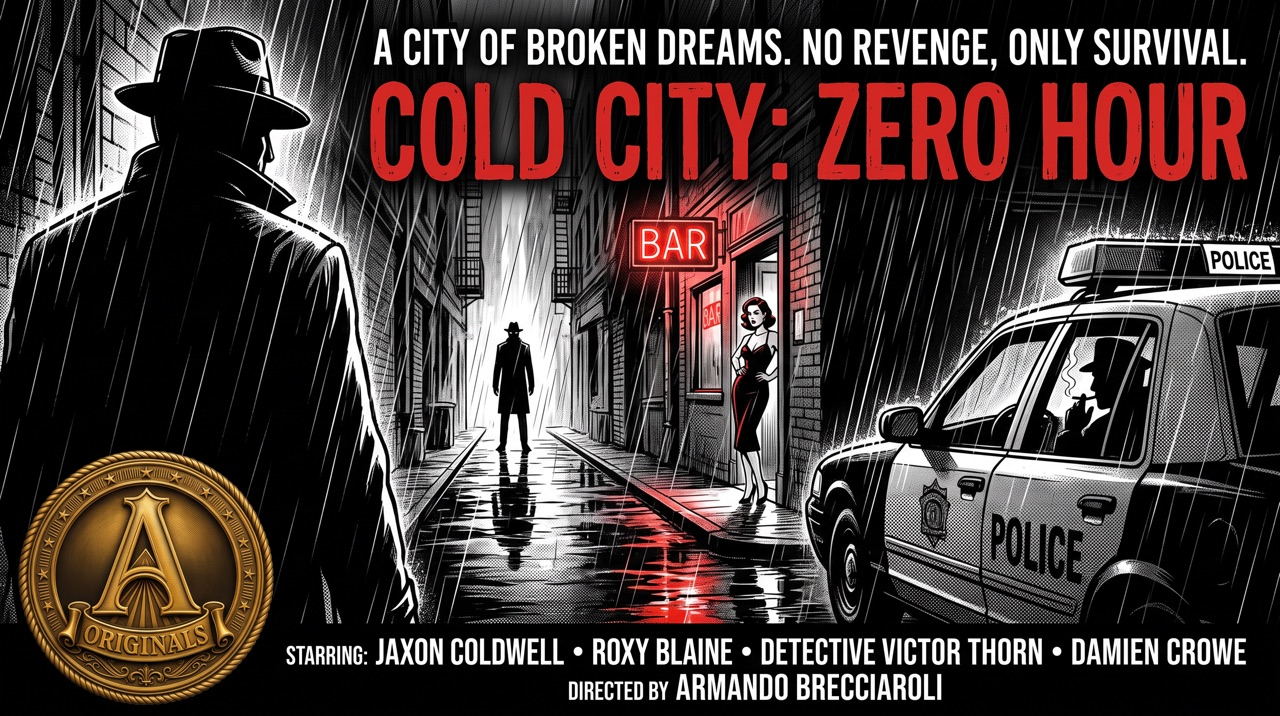
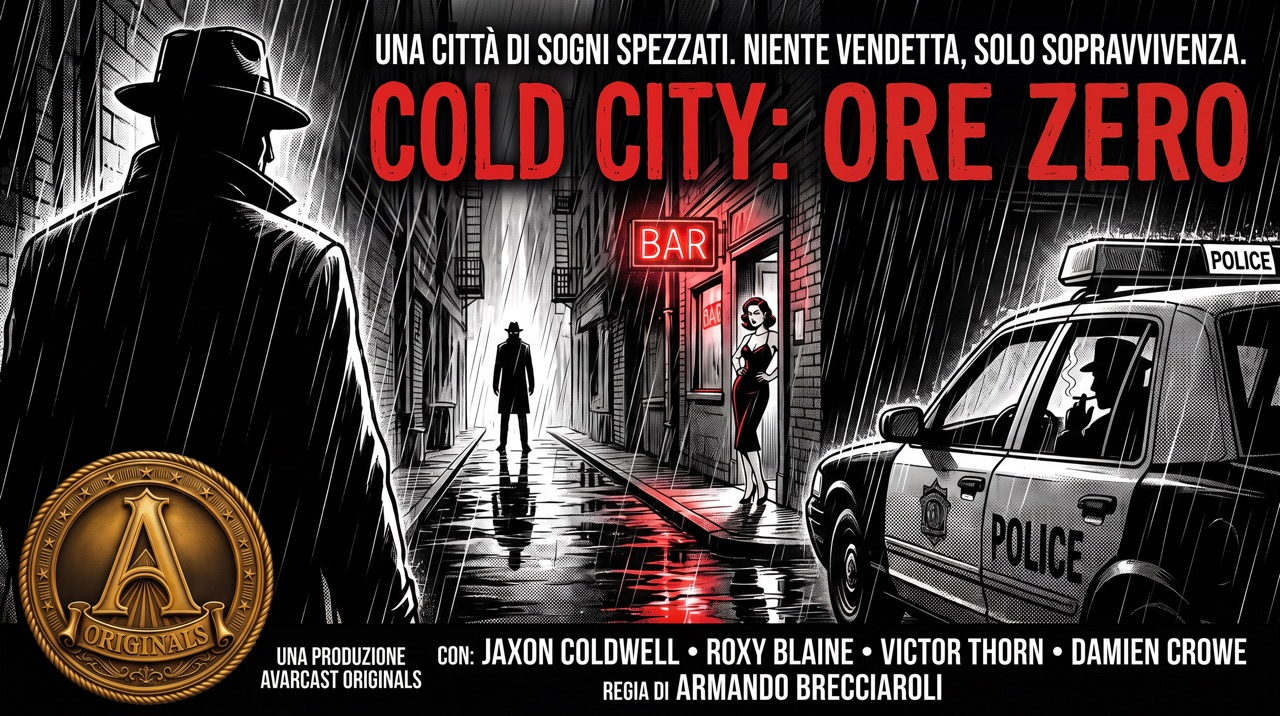
feat(cold-city): Italian title, poster and trimmed synopsis
Title changed to "Cold City: Ore Zero" everywhere (title tags, h1,
card titles, alt text, AI disclosure) to match the new Italian poster
art. Cover image replaced with the Italian version. Synopsis text
trimmed across the dedicated page, both catalog cards and the meta
description to hold back the ending twist and the ticking-clock beat.

diff --git a/originals/cold-city-zero-hour/index.html b/originals/cold-city-zero-hour/index.html
@@ -3,9 +3,9 @@
 <head>
   <meta charset="UTF-8" />
   <meta name="viewport" content="width=device-width, initial-scale=1.0" />
-  <title>Cold City: Zero Hour | Avarcast Originals</title>
-  <meta name="description" content="Un ex sicario, un archivio che può far crollare Cold City, un solo vicolo per regolare ogni conto in sospeso prima che scada il tempo. Cold City: Zero Hour, un'opera Avarcast Originals in stile neo-noir." />
-  <meta property="og:title" content="Cold City: Zero Hour" />
+  <title>Cold City: Ore Zero | Avarcast Originals</title>
+  <meta name="description" content="Un ex sicario, un archivio che può far crollare Cold City, un solo vicolo per regolare ogni conto in sospeso. Cold City: Ore Zero, un'opera Avarcast Originals in stile neo-noir." />
+  <meta property="og:title" content="Cold City: Ore Zero" />
   <meta property="og:description" content="Neo-noir, graphic novel cinematico. Un'opera Avarcast Originals." />
   <meta property="og:image" content="../../assets/img/originals/cold-city-zero-hour-cover.jpg" />
   <meta property="og:type" content="video.other" />
@@ -300,7 +300,7 @@
       <span data-lang="it">Produzione originale · Neo-noir · Graphic novel cinematico</span>
       <span data-lang="en">Original production · Neo-noir · Cinematic graphic novel</span>
     </div>
-    <h1 class="cz-title">Cold City: Zero Hour</h1>
+    <h1 class="cz-title">Cold City: Ore Zero</h1>
     <div class="cz-subtitle">
       <span data-lang="it">Una città di sogni infranti. Nessuna vendetta, solo sopravvivenza.</span>
       <span data-lang="en">A city of broken dreams. No revenge, only survival.</span>
@@ -310,8 +310,8 @@
       <span data-lang="en">In Cold City's darkest night, a former hitman holds the archive that could bring the whole city down.</span>
     </p>
     <p class="cz-desc">
-      <span data-lang="it">Sotto una pioggia che non riesce a lavare via i peccati, Jaxon Coldwell aspetta in un vicolo. Quando arrivano la misteriosa Roxy Blaine, il detective corrotto Victor Thorn e Damien Crowe, l'uomo che ha orchestrato tutto nell'ombra, l'incontro si trasforma in uno stallo fatto di menzogne, vecchi tradimenti e conti mai chiusi. Jaxon non è lì per vendere l'archivio: sta comprando tempo. Alle quattro in punto, la verità diventa impossibile da fermare.</span>
-      <span data-lang="en">Under a rain that can't wash the sins away, Jaxon Coldwell waits in an alley. When the mysterious Roxy Blaine, corrupt detective Victor Thorn and Damien Crowe, the man who orchestrated it all from the shadows, arrive, the meeting turns into a standoff of lies, old betrayals and scores never settled. Jaxon isn't there to sell the archive: he's buying time. At four o'clock sharp, the truth becomes impossible to stop.</span>
+      <span data-lang="it">Sotto una pioggia che non riesce a lavare via i peccati, Jaxon Coldwell aspetta in un vicolo. Quando arrivano la misteriosa Roxy Blaine, il detective corrotto Victor Thorn e Damien Crowe, l'uomo che ha orchestrato tutto nell'ombra, l'incontro si trasforma in uno stallo fatto di menzogne, vecchi tradimenti e conti mai chiusi.</span>
+      <span data-lang="en">Under a rain that can't wash the sins away, Jaxon Coldwell waits in an alley. When the mysterious Roxy Blaine, corrupt detective Victor Thorn and Damien Crowe, the man who orchestrated it all from the shadows, arrive, the meeting turns into a standoff of lies, old betrayals and scores never settled.</span>
     </p>
   </div>
 </div>
@@ -365,8 +365,8 @@
 <section id="watch">
   <div class="wrap">
     <div class="sec-label">
-      <span data-lang="it">Zero Hour</span>
-      <span data-lang="en">Zero Hour</span>
+      <span data-lang="it">Ore Zero</span>
+      <span data-lang="en">Ore Zero</span>
     </div>
     <h2 class="sec-title">
       <span data-lang="it">Guarda il trailer</span>
@@ -374,9 +374,9 @@
     </h2>
 
     <div class="ep-grid">
-      <div class="ep-card" data-yt-id="" data-title="Cold City: Zero Hour · Trailer">
+      <div class="ep-card" data-yt-id="" data-title="Cold City: Ore Zero · Trailer">
         <div class="ep-fallback"></div>
-        <img class="ep-photo" src="../../assets/img/originals/cold-city-zero-hour-cover.jpg" alt="Cold City: Zero Hour" loading="lazy" onerror="this.style.display='none'" />
+        <img class="ep-photo" src="../../assets/img/originals/cold-city-zero-hour-cover.jpg" alt="Cold City: Ore Zero" loading="lazy" onerror="this.style.display='none'" />
         <div class="ep-gradient"></div>
         <a class="ep-play" aria-label="Guarda il trailer su YouTube" style="display:none;" target="_blank" rel="noopener noreferrer">
           <svg viewBox="0 0 24 24" fill="currentColor"><path d="M8 5v14l11-7z"/></svg>
@@ -398,8 +398,8 @@
       <span data-lang="en">Don't miss the release</span>
     </h2>
     <p class="notify-desc">
-      <span data-lang="it">Ti avvisiamo appena trailer e prima uscita di Cold City: Zero Hour saranno online su YouTube. Fa parte del catalogo Avarcast Originals: le uscite riservate agli abbonati saranno accessibili tramite il nostro <a href="https://patreon.com/AvarCast" target="_blank" rel="noopener noreferrer">profilo Patreon</a>, prezzo pubblicato lì.</span>
-      <span data-lang="en">We'll let you know as soon as the trailer and first release of Cold City: Zero Hour are online on YouTube. It's part of the Avarcast Originals catalog: subscriber-only releases will be accessible through our <a href="https://patreon.com/AvarCast" target="_blank" rel="noopener noreferrer">Patreon page</a>, price published there.</span>
+      <span data-lang="it">Ti avvisiamo appena trailer e prima uscita di Cold City: Ore Zero saranno online su YouTube. Fa parte del catalogo Avarcast Originals: le uscite riservate agli abbonati saranno accessibili tramite il nostro <a href="https://patreon.com/AvarCast" target="_blank" rel="noopener noreferrer">profilo Patreon</a>, prezzo pubblicato lì.</span>
+      <span data-lang="en">We'll let you know as soon as the trailer and first release of Cold City: Ore Zero are online on YouTube. It's part of the Avarcast Originals catalog: subscriber-only releases will be accessible through our <a href="https://patreon.com/AvarCast" target="_blank" rel="noopener noreferrer">Patreon page</a>, price published there.</span>
     </p>
 
     <form class="waitlist-form" id="cold-city-form" onsubmit="submitWaitlist(event,'cold-city-zero-hour')">
@@ -456,8 +456,8 @@
       <a href="../index.html">Avarcast Originals</a> · <a href="../../privacy.html">Privacy</a> · <a href="../../terms.html">Termini</a>
     </div>
     <p class="ai-disclosure">
-      <span data-lang="it">Cold City: Zero Hour è un progetto narrativo generato o manipolato con intelligenza artificiale, ai sensi dell'art. 50 del Regolamento UE 2024/1689 (AI Act).</span>
-      <span data-lang="en">Cold City: Zero Hour is a narrative project generated or manipulated using artificial intelligence, pursuant to Article 50 of Regulation (EU) 2024/1689 (the AI Act).</span>
+      <span data-lang="it">Cold City: Ore Zero è un progetto narrativo generato o manipolato con intelligenza artificiale, ai sensi dell'art. 50 del Regolamento UE 2024/1689 (AI Act).</span>
+      <span data-lang="en">Cold City: Ore Zero is a narrative project generated or manipulated using artificial intelligence, pursuant to Article 50 of Regulation (EU) 2024/1689 (the AI Act).</span>
     </p>
   </div>
 </footer>

diff --git a/originals/index.html b/originals/index.html
@@ -4,7 +4,7 @@
   <meta charset="UTF-8" />
   <meta name="viewport" content="width=device-width, initial-scale=1.0" />
   <title>Avarcast Originals · Storie originali. Mondi originali.</title>
-  <meta name="description" content="Serie, cortometraggi e progetti narrativi che Avarcast scrive, produce e pubblica in autonomia: da Jonah Drevane, Cronache del Meridiano Nero, a Cold City: Zero Hour." />
+  <meta name="description" content="Serie, cortometraggi e progetti narrativi che Avarcast scrive, produce e pubblica in autonomia: da Jonah Drevane, Cronache del Meridiano Nero, a Cold City: Ore Zero." />
   <meta property="og:title" content="Avarcast Originals" />
   <meta property="og:description" content="Storie originali. Mondi originali. Produzioni Avarcast." />
   <meta property="og:image" content="../assets/img/originals/jonah-drevane-cover.jpg" />
@@ -375,7 +375,7 @@
           <div class="cc-fallback"></div>
           <img class="cc-photo"
             src="../assets/img/originals/cold-city-zero-hour-cover.jpg"
-            alt="Cold City: Zero Hour"
+            alt="Cold City: Ore Zero"
             loading="lazy"
             onerror="this.style.display='none'" />
         </div>
@@ -384,14 +384,14 @@
             <span data-lang="it">Neo-noir · Graphic novel cinematico</span>
             <span data-lang="en">Neo-noir · Cinematic graphic novel</span>
           </div>
-          <div class="cc-title">Cold City: Zero Hour</div>
+          <div class="cc-title">Cold City: Ore Zero</div>
           <div class="cc-subtitle">
             <span data-lang="it">Una città di sogni infranti. Nessuna vendetta, solo sopravvivenza.</span>
             <span data-lang="en">A city of broken dreams. No revenge, only survival.</span>
           </div>
           <p class="cc-desc">
-            <span data-lang="it">Un ex sicario, un archivio che può far crollare Cold City e un solo vicolo per regolare ogni conto in sospeso, prima che scada il tempo.</span>
-            <span data-lang="en">A former hitman, an archive that can bring Cold City down, and one alley to settle every unpaid score before time runs out.</span>
+            <span data-lang="it">Un ex sicario, un archivio che può far crollare Cold City e un solo vicolo per regolare ogni conto in sospeso.</span>
+            <span data-lang="en">A former hitman, an archive that can bring Cold City down, and one alley to settle every unpaid score.</span>
           </p>
           <div class="cc-status">
             <span class="cc-status-item">

diff --git a/index.html b/index.html
@@ -2134,7 +2134,7 @@
           <div class="occ-fallback"></div>
           <img class="occ-photo"
             src="assets/img/originals/cold-city-zero-hour-cover.jpg"
-            alt="Cold City: Zero Hour"
+            alt="Cold City: Ore Zero"
             loading="lazy"
             onerror="this.style.display='none'" />
         </div>
@@ -2143,14 +2143,14 @@
             <span data-lang="it">Neo-noir · Graphic novel cinematico</span>
             <span data-lang="en">Neo-noir · Cinematic graphic novel</span>
           </div>
-          <div class="occ-title">Cold City: Zero Hour</div>
+          <div class="occ-title">Cold City: Ore Zero</div>
           <div class="occ-subtitle">
             <span data-lang="it">Una città di sogni infranti. Nessuna vendetta, solo sopravvivenza.</span>
             <span data-lang="en">A city of broken dreams. No revenge, only survival.</span>
           </div>
           <p class="occ-desc">
-            <span data-lang="it">Un ex sicario, un archivio che può far crollare Cold City e un solo vicolo per regolare ogni conto in sospeso, prima che scada il tempo.</span>
-            <span data-lang="en">A former hitman, an archive that can bring Cold City down, and one alley to settle every unpaid score before time runs out.</span>
+            <span data-lang="it">Un ex sicario, un archivio che può far crollare Cold City e un solo vicolo per regolare ogni conto in sospeso.</span>
+            <span data-lang="en">A former hitman, an archive that can bring Cold City down, and one alley to settle every unpaid score.</span>
           </p>
           <div class="occ-status">
             <span class="occ-status-item">
